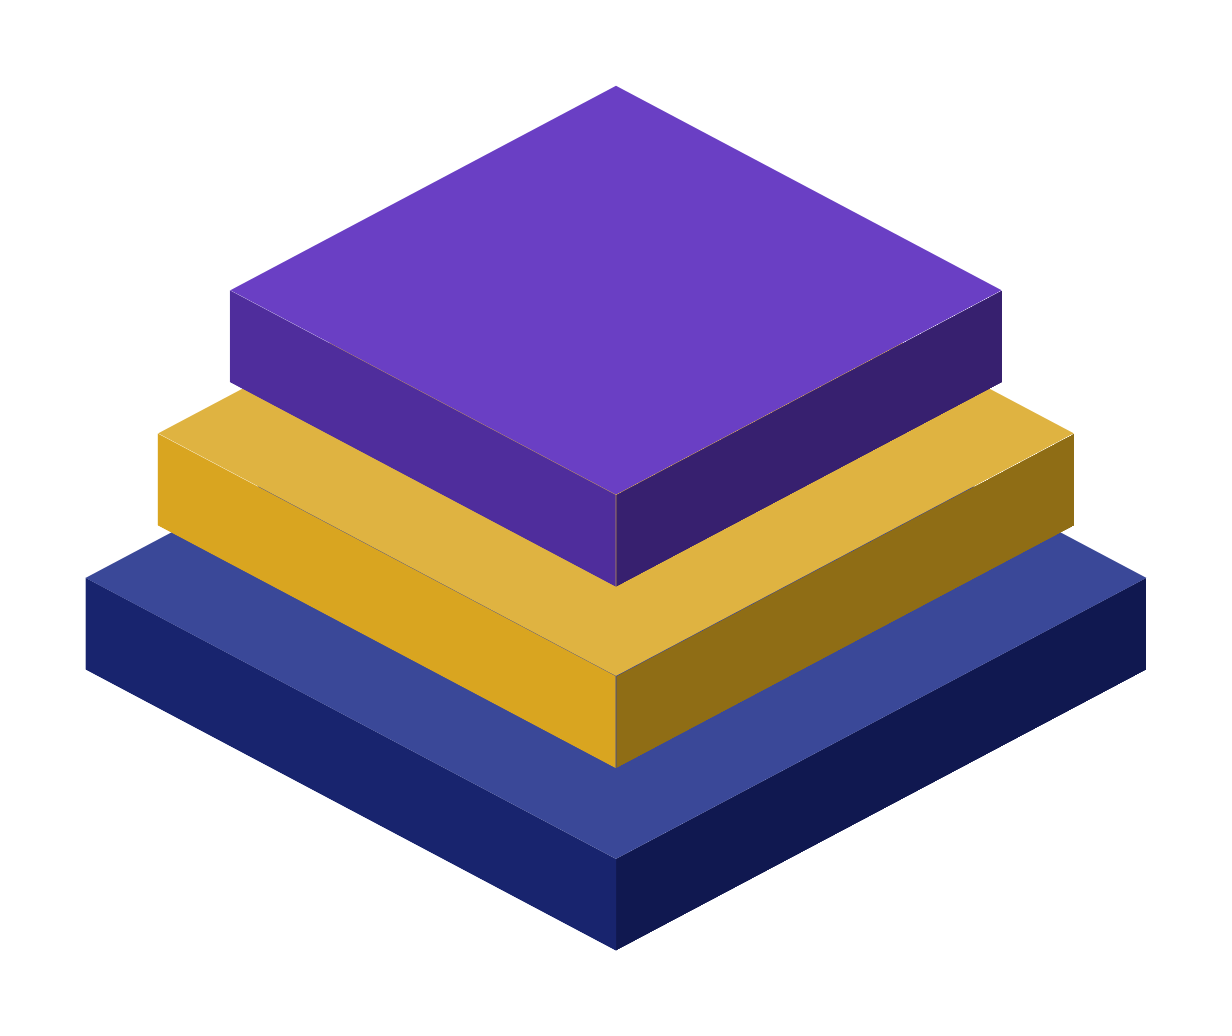
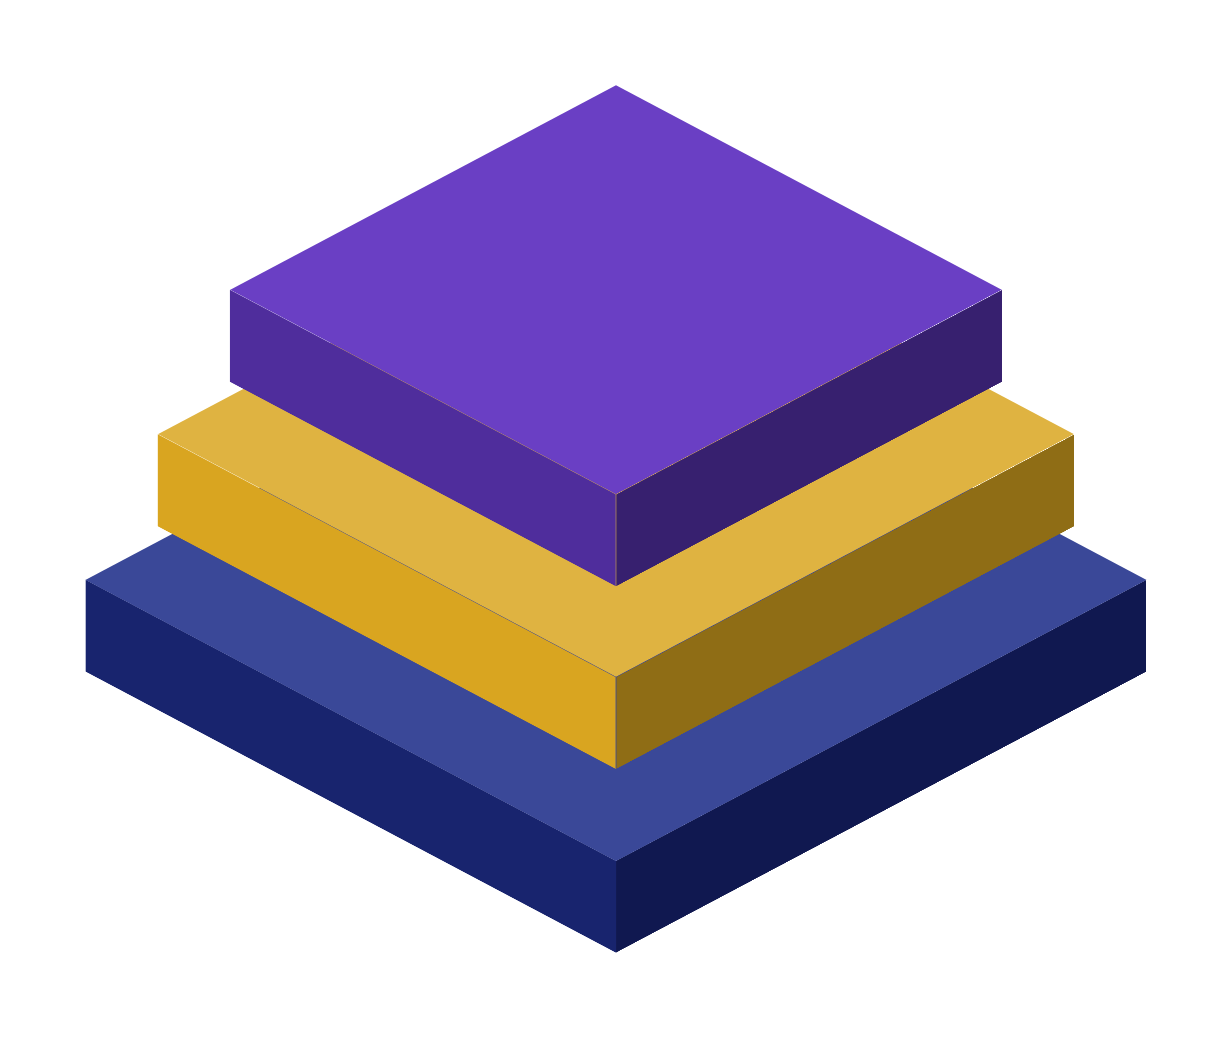
Models: Base-Superstructure diagram with smaller blocks (the pyramid at 82%), its lines drawn in to match and the empty space above and below trimmed; download updated
Claude-Session: https://claude.ai/code/session_01LgHoU9QwZ5ZurXZhgzwbWe

diff --git a/diagram/index.html b/diagram/index.html
@@ -3784,7 +3784,7 @@
     </section>
 
     <section class="structures-view" aria-label="Cultural Materialism: Three Structures">
-    <div class="model-save-row"><a class="model-save" href="../assets/downloads/cultural-materialism.png?v=c9e90f98" download="Cultural Materialism - Three Structures.png"><svg viewBox="0 0 24 24" fill="none" stroke="currentColor" stroke-width="1.6" stroke-linecap="round" stroke-linejoin="round" aria-hidden="true"><path d="M4 15v3.5A1.5 1.5 0 0 0 5.5 20h13a1.5 1.5 0 0 0 1.5-1.5V15"/><g class="arrow"><path d="M12 4v11"/><path d="M8 11l4 4 4-4"/></g></svg><span>Download diagram</span></a></div>
+    <div class="model-save-row"><a class="model-save" href="../assets/downloads/cultural-materialism.png?v=3ae7eac5" download="Cultural Materialism - Three Structures.png"><svg viewBox="0 0 24 24" fill="none" stroke="currentColor" stroke-width="1.6" stroke-linecap="round" stroke-linejoin="round" aria-hidden="true"><path d="M4 15v3.5A1.5 1.5 0 0 0 5.5 20h13a1.5 1.5 0 0 0 1.5-1.5V15"/><g class="arrow"><path d="M12 4v11"/><path d="M8 11l4 4 4-4"/></g></svg><span>Download diagram</span></a></div>
       <div class="stack-layout">
         <div class="stack-scene" aria-hidden="true"><div class="st-stack"></div></div>
         <div class="stack-side">
@@ -3799,7 +3799,7 @@
     <div class="structures-alt" role="figure" aria-label="Cultural Materialism, three structures: infrastructure, structure and superstructure"></div>
 
     <section class="marx-view" aria-label="Classical Marxism: Base-Superstructure">
-    <div class="model-save-row model-save-modes"><a class="model-save" href="../assets/downloads/base-superstructure.png?v=7b850d57" download="Classical Marxism - Base-Superstructure.png"><svg viewBox="0 0 24 24" fill="none" stroke="currentColor" stroke-width="1.6" stroke-linecap="round" stroke-linejoin="round" aria-hidden="true"><path d="M4 15v3.5A1.5 1.5 0 0 0 5.5 20h13a1.5 1.5 0 0 0 1.5-1.5V15"/><g class="arrow"><path d="M12 4v11"/><path d="M8 11l4 4 4-4"/></g></svg><span>Download diagram</span></a><div class="model-modes" role="group" aria-label="View"><button type="button" data-mode="stack" aria-pressed="true">Stack</button><button type="button" data-mode="diagram" aria-pressed="false">Diagram</button></div></div>
+    <div class="model-save-row model-save-modes"><a class="model-save" href="../assets/downloads/base-superstructure.png?v=be175563" download="Classical Marxism - Base-Superstructure.png"><svg viewBox="0 0 24 24" fill="none" stroke="currentColor" stroke-width="1.6" stroke-linecap="round" stroke-linejoin="round" aria-hidden="true"><path d="M4 15v3.5A1.5 1.5 0 0 0 5.5 20h13a1.5 1.5 0 0 0 1.5-1.5V15"/><g class="arrow"><path d="M12 4v11"/><path d="M8 11l4 4 4-4"/></g></svg><span>Download diagram</span></a><div class="model-modes" role="group" aria-label="View"><button type="button" data-mode="stack" aria-pressed="true">Stack</button><button type="button" data-mode="diagram" aria-pressed="false">Diagram</button></div></div>
       <div class="stack-layout">
         <div class="stack-scene" aria-hidden="true"><div class="st-stack"></div></div>
         <div class="stack-side">
@@ -3810,11 +3810,12 @@
         </div>
       </div>
       <div class="marx-figure" hidden>
-          <svg class="marx-fig" viewBox="0 0 1200 1160" role="img" aria-label="The base and the superstructure as two sections of a pyramid, the superstructure above: the superstructure, everything not directly to do with production, maintains (and shapes) the base; the base, the means and relations of production, shapes (and maintains) the superstructure; this moves in a spiral pattern, and the base is generally dominant">
-          <path class="mf-line" d="M357.5 209.9 H50 V823.1 H135.2"/>
-          <path class="mf-line" d="M123.2 811.1 L135.2 823.1 L123.2 835.1"/>
-          <path class="mf-line" d="M1109.3 823.1 H1150 V209.9 H862.0"/>
-          <path class="mf-line" d="M874.0 197.9 L862.0 209.9 L874.0 221.9"/>
+          <svg class="marx-fig" viewBox="0 150 1200 900" role="img" aria-label="The base and the superstructure as two sections of a pyramid, the superstructure above: the superstructure, everything not directly to do with production, maintains (and shapes) the base; the base, the means and relations of production, shapes (and maintains) the superstructure; this moves in a spiral pattern, and the base is generally dominant">
+          <path class="mf-line" d="M399.0 272.9 H130 V775.7 H217.0"/>
+          <path class="mf-line" d="M205.0 763.7 L217.0 775.7 L205.0 787.7"/>
+          <path class="mf-line" d="M1019.8 775.7 H1070 V272.9 H816.6"/>
+          <path class="mf-line" d="M828.6 260.9 L816.6 272.9 L828.6 284.9"/>
+          <g transform="matrix(0.82 0 0 0.82 108.0 100.8)">
           <polygon fill="#8f6d15" points="944.0,990.2 1116.0,869.8 978.4,525.9 852.3,614.1"/><polygon fill="#e8bf4f" points="221.6,614.1 852.3,614.1 978.4,525.9 347.7,525.9"/><polygon fill="#d9a520" points="84.0,990.2 944.0,990.2 852.3,614.1 221.6,614.1"/>
           <polygon fill="#37206f" points="844.1,580.7 966.2,495.3 817.9,124.6 745.2,175.4"/><polygon fill="#8a66d8" points="382.1,175.4 745.2,175.4 817.9,124.6 454.8,124.6"/><polygon fill="#6a3fc4" points="233.8,580.7 844.1,580.7 745.2,175.4 382.1,175.4"/>
           <text class="mf-title" x="561.6" y="224.9" text-anchor="middle">Superstructure</text>
@@ -3837,9 +3838,10 @@
           <text class="mf-head" x="525.0" y="810.5" text-anchor="middle" fill="#fbf6ec">Relations of production</text>
           <text class="mf-item" x="522.9" y="844.0" text-anchor="middle" fill="#fbf6ec">Proletariat, labour aristocracy, bourgeoisie</text>
           <text class="mf-item" x="519.5" y="900.4" text-anchor="middle" fill="#fbf6ec">Private property, capital, commodities, etc.</text>
-          <text class="mf-rel" x="72" y="484.0">Maintains</text><text class="mf-rel-sub" x="72" y="510.0">(and shapes)</text>
-          <text class="mf-rel" x="1128" y="484.0" text-anchor="end">Shapes</text><text class="mf-rel-sub" x="1128" y="510.0" text-anchor="end">(and maintains)</text>
-          <text class="mf-note" x="600" y="1054.2" text-anchor="middle">This moves in a spiral pattern.</text><text class="mf-note" x="600" y="1086.2" text-anchor="middle">The base is generally dominant.</text>
+          </g>
+          <text class="mf-rel" x="152" y="485.1">Maintains</text><text class="mf-rel-sub" x="152" y="511.1">(and shapes)</text>
+          <text class="mf-rel" x="1048" y="485.1" text-anchor="end">Shapes</text><text class="mf-rel-sub" x="1048" y="511.1" text-anchor="end">(and maintains)</text>
+          <text class="mf-note" x="600" y="976.8" text-anchor="middle">This moves in a spiral pattern.</text><text class="mf-note" x="600" y="1008.8" text-anchor="middle">The base is generally dominant.</text>
           </svg>
       </div>
     </section>
@@ -4937,7 +4939,7 @@
         var link = view.querySelector('.model-save');
         var files = {
           stack: [link.getAttribute('href'), link.getAttribute('download')],
-          diagram: ['../assets/downloads/base-superstructure-diagram.png?v=b4e5886d', 'Classical Marxism - Base and Superstructure.png']
+          diagram: ['../assets/downloads/base-superstructure-diagram.png?v=93649ef8', 'Classical Marxism - Base and Superstructure.png']
         };
         view.querySelectorAll('.model-modes button').forEach(function (b) {
           b.addEventListener('click', function () {

diff --git a/tools/make-marx-pyramid.py b/tools/make-marx-pyramid.py
@@ -10,6 +10,10 @@ KX, KY = 0.2, 0.14          # how far depth recedes, across and up
 CX, CY = 600, 930           # where the centre of the base sits on screen
 def hw(y): return A * (1 - y / HP)
 def P(x, y, z): return (CX + x - KX * z, CY - y + KY * z)
+# the pyramid (and the writing on it) drawn at K of its size, about PIV;
+# the lines, their labels and the caption placed to match
+K, PIV = 0.82, (600, 560)
+def S(pt): return (PIV[0] + (pt[0] - PIV[0]) * K, PIV[1] + (pt[1] - PIV[1]) * K)
 def pts(*ps): return ' '.join('%.1f,%.1f' % P(*q) for q in ps)
 def tier(y0, y1, band, c):
     body, bandc, top, side = c
@@ -25,7 +29,7 @@ def mid(y):           # the centre of the front face, on screen, at height y
     h = hw(y); return P(0, y, h)
 V = ('#6a3fc4', '#4f2d9c', '#8a66d8', '#37206f'); G = ('#d9a520', '#a87d12', '#e8bf4f', '#8f6d15')
 B0, B1 = 0, 360; S0, S1 = 392, 780; BAND = 66
-svg = ['<svg class="marx-fig" viewBox="0 0 1200 1160" role="img" aria-label="The base and the superstructure as two sections of a pyramid, the superstructure above: the superstructure, everything not directly to do with production, maintains (and shapes) the base; the base, the means and relations of production, shapes (and maintains) the superstructure; this moves in a spiral pattern, and the base is generally dominant">']
+svg = ['<svg class="marx-fig" viewBox="0 150 1200 900" role="img" aria-label="The base and the superstructure as two sections of a pyramid, the superstructure above: the superstructure, everything not directly to do with production, maintains (and shapes) the base; the base, the means and relations of production, shapes (and maintains) the superstructure; this moves in a spiral pattern, and the base is generally dominant">']
 # the relations: plain lines with open arrowheads, mirroring each other -
 # the same height, the same distance out, meeting the pyramid at the same
 # two levels on either side (by the superstructure's title, and through
@@ -36,13 +40,16 @@ def right_at(Y):      # the point on the back-right edge at screen height Y
     y = (CY - KY * A - Y) / (1 - KY * A / HP); h = hw(y); return P(h, y, -h)
 YA = P(0, S1 - BAND / 2, hw(S1 - BAND / 2))[1]
 YB = P(0, (B0 + B1) / 2 - 20, hw((B0 + B1) / 2 - 20))[1]
-L, R = 50, 1150
-a, b = left_at(YA), left_at(YB)
+L, R = 130, 1070
+a, b = S(left_at(YA)), S(left_at(YB))
+YA0, YB0 = YA, YB
+YA, YB = S((0, YA0))[1], S((0, YB0))[1]
 svg.append('<path class="mf-line" d="M%.1f %.1f H%d V%.1f H%.1f"/>' % (a[0] - 12, YA, L, YB, b[0] - 10))
 svg.append('<path class="mf-line" d="M%.1f %.1f L%.1f %.1f L%.1f %.1f"/>' % (b[0] - 22, YB - 12, b[0] - 10, YB, b[0] - 22, YB + 12))
-c, d = right_at(YB), right_at(YA)
+c, d = S(right_at(YB0)), S(right_at(YA0))
 svg.append('<path class="mf-line" d="M%.1f %.1f H%d V%.1f H%.1f"/>' % (c[0] + 12, YB, R, YA, d[0] + 10))
 svg.append('<path class="mf-line" d="M%.1f %.1f L%.1f %.1f L%.1f %.1f"/>' % (d[0] + 22, YA - 12, d[0] + 10, YA, d[0] + 22, YA + 12))
+svg.append('<g transform="matrix(%g 0 0 %g %.1f %.1f)">' % (K, K, PIV[0] * (1 - K), PIV[1] * (1 - K)))
 svg.append(tier(B0, B1, BAND, G))
 svg.append(tier(S0, S1, BAND, V))
 def text(cls, y, s, fill=None, dx=0, anchor='middle', dy=0):
@@ -69,10 +76,11 @@ for (yy, cls, t) in [(B1 - BAND - 38, 'mf-head', 'Means of production'), (B1 - B
     svg.append(text(cls, yy, t, INK))
 # the labels by the lines
 # (each label beside its line, in the gap between the two sections)
-gy = P(0, (B1 + S0) / 2, 0)[1]
+svg.append('</g>')
+gy = S(P(0, (B1 + S0) / 2, 0))[1]
 svg.append('<text class="mf-rel" x="%d" y="%.1f">Maintains</text><text class="mf-rel-sub" x="%d" y="%.1f">(and shapes)</text>' % (L + 22, gy - 70, L + 22, gy - 44))
 svg.append('<text class="mf-rel" x="%d" y="%.1f" text-anchor="end">Shapes</text><text class="mf-rel-sub" x="%d" y="%.1f" text-anchor="end">(and maintains)</text>' % (R - 22, gy - 70, R - 22, gy - 44))
-bot = P(0, 0, A)[1]
+bot = S(P(0, 0, A))[1]
 svg.append('<text class="mf-note" x="600" y="%.1f" text-anchor="middle">This moves in a spiral pattern.</text><text class="mf-note" x="600" y="%.1f" text-anchor="middle">The base is generally dominant.</text>' % (bot + 64, bot + 96))
 top = P(0, S1, -hw(S1))[1]
 print('top', top, 'caption', bot + 96)
